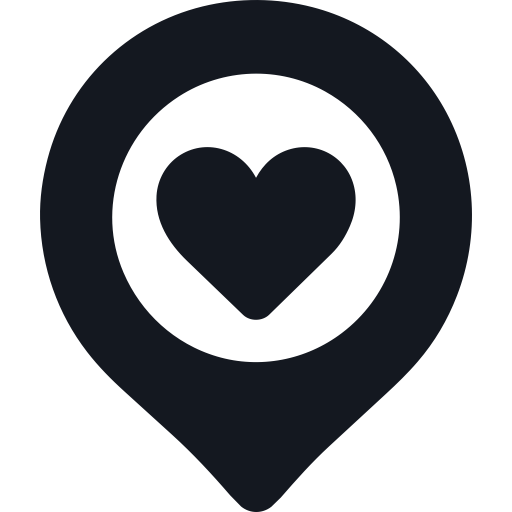
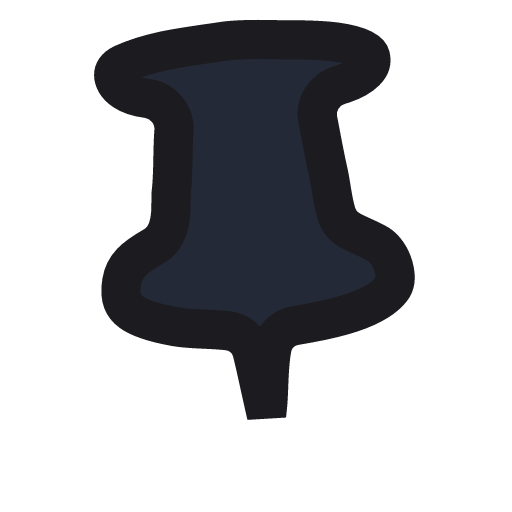
feat: 하단 내비 지구본·Pinnned 로고·파비콘 시안 반영 (#126)
* feat: 하단 내비 지구본 아이콘을 시안 아이콘으로 교체

- 구 3D 지구 PNG를 시안의 플랫 일러스트 SVG(96x96, 드롭섀도 베이크)로 교체 (Figma 2632-37387)
- 시안 y:-35.36에 맞춰 바 위 35px 돌출 유지 (size 96 + bottom 16)

* feat: Pinnned 로고 락업 교체 및 파비콘 갱신

- 로고를 푸시핀(-4도) + 워드마크 신규 락업으로 교체 (Figma 2473-16862)
- 헤더·지도 로딩 오버레이는 에셋 교체로 자동 반영, 스플래시용 아웃라인 워드마크는 별개 시안이라 유지
- favicon.svg를 새 푸시핀 아이콘으로 교체하고 favicon.ico를 16/24/32/64 멀티사이즈로 재생성

* feat: 파비콘 핀을 로고 락업과 동일하게 -4도 기울임

- favicon.svg에 회전 적용 후 favicon.ico(16/24/32/64) 재생성

* feat: PWA 설치 아이콘을 새 푸시핀 로고로 재생성

- main 병합으로 들어온 icon-192/512(구 하트 맵핀 로고)를 새 파비콘 SVG 기준으로 교체

* fix: globe.svg의 미참조 이모지·한글 id 제거

- Figma 레이어명이 id로 export된 잔재로, url()/href 참조가 없어 안전하게 제거

diff --git a/src/widgets/bottom-nav/ui/BottomNav.tsx b/src/widgets/bottom-nav/ui/BottomNav.tsx
@@ -1,5 +1,5 @@
 import { User } from "lucide-react"
-import globeSrc from "../assets/globe.png"
+import globeSrc from "../assets/globe.svg"
 import type { ComponentProps } from "react"
 
 import { cn } from "@/shared/lib/utils"
@@ -78,21 +78,22 @@ function BottomNav({
         </button>
       </div>
 
-      {/* 중앙 지구본 — 바 위로 절반쯤 겹쳐 떠 있음. 핸들러 주입 시 지도 이동 버튼 */}
+      {/* 중앙 지구본(시안 2632-37387, 96×96) — 바 상단 위로 35px 돌출(시안 y:-35.36).
+          핸들러 주입 시 지도 이동 버튼 */}
       {onGlobeClick ? (
         <button
           type="button"
           aria-label="지도 보기"
           onClick={onGlobeClick}
-          className="absolute bottom-[14px] left-1/2 -translate-x-1/2"
+          className="absolute bottom-[16px] left-1/2 -translate-x-1/2"
         >
-          <img src={globeSrc} alt="" className="size-[98px]" />
+          <img src={globeSrc} alt="" className="size-[96px]" />
         </button>
       ) : (
         <img
           src={globeSrc}
           alt=""
-          className="pointer-events-none absolute bottom-[14px] left-1/2 size-[98px] -translate-x-1/2"
+          className="pointer-events-none absolute bottom-[16px] left-1/2 size-[96px] -translate-x-1/2"
         />
       )}
     </nav>

diff --git a/src/widgets/bottom-nav/ui/BottomNav.stories.tsx b/src/widgets/bottom-nav/ui/BottomNav.stories.tsx
@@ -10,7 +10,7 @@ const meta: Meta<typeof BottomNav> = {
     docs: {
       description: {
         component:
-          "지도 메인 하단 내비게이션 (시안 1745-38063). 어두운 필 바 + 중앙 지구본, 좌측 여행 앨범 / 우측 마이페이지. 이동 동작은 페이지에서 주입.",
+          "지도 메인 하단 내비게이션 (시안 1745-38063). 어두운 필 바 + 중앙 지구본(시안 2632-37387), 좌측 여행 앨범 / 우측 마이페이지. 이동 동작은 페이지에서 주입.",
       },
     },
   },

diff --git a/src/widgets/app-header/ui/AppHeader.tsx b/src/widgets/app-header/ui/AppHeader.tsx
@@ -25,7 +25,7 @@ function AppHeader({
       )}
       {...props}
     >
-      {/* 로고 (시안 2386-16530, 120×28) */}
+      {/* 로고 (시안 2473-16862, 112.6×25.2) */}
       <div className="flex h-[60px] items-center">
         <img src={logoSrc} alt="Pinnned" className="h-7" />
       </div>
